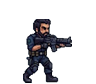
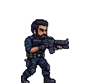
Add per-weapon melee and pixel-art bullets, muzzle, and casings.
Close attacks use SMG, revolver, and shotgun heavy-strike sheets.
Projectiles use the shotgun pellet cloud, revolver round, and SMG
slug art. Shotgun pump ejects a falling casing.

Changed region(s): [[0.2188, 0.2143, 0.75, 1.0]]

diff --git a/tools/slice_weapon_fx.py b/tools/slice_weapon_fx.py
@@ -1,0 +1,133 @@
+#!/usr/bin/env python3
+"""Melee por arma, projéteis em pixel art e cartucho da espingarda."""
+from __future__ import annotations
+
+from pathlib import Path
+
+from PIL import Image
+
+ROOT = Path(__file__).resolve().parents[1]
+SPR = ROOT / "assets" / "sprites"
+FRAMES = ROOT / "assets" / "frames" / "kiko"
+FX = ROOT / "assets" / "frames" / "fx"
+TARGET_H = 64
+FRAME_W, FRAME_H = 96, 84
+BG = (165, 200, 232)
+
+
+def knockout(crop: Image.Image, bg=BG, tol: int = 32, fringe: int = 10) -> Image.Image:
+    im = crop.convert("RGBA")
+    pix = im.load()
+    for y in range(im.height):
+        for x in range(im.width):
+            r, g, b, _a = pix[x, y]
+            dist = max(abs(r - bg[0]), abs(g - bg[1]), abs(b - bg[2]))
+            if dist <= tol:
+                pix[x, y] = (0, 0, 0, 0)
+            elif dist <= tol + fringe:
+                alpha = int(255 * (dist - tol) / fringe)
+                pix[x, y] = (min(255, r + 4), g, max(0, b - 8), alpha)
+    return im
+
+
+def trim(im: Image.Image) -> Image.Image:
+    box = im.split()[-1].getbbox()
+    return im.crop(box) if box else im
+
+
+def pack(im: Image.Image) -> Image.Image:
+    im = trim(im)
+    scale = min(1.15, TARGET_H / max(im.height, 1))
+    nw = max(1, round(im.width * scale))
+    nh = max(1, round(im.height * scale))
+    scaled = im.resize((nw, nh), Image.Resampling.LANCZOS)
+    canvas = Image.new("RGBA", (FRAME_W, FRAME_H), (0, 0, 0, 0))
+    alpha = scaled.split()[-1]
+    ap = alpha.load()
+    foot_xs: list[int] = []
+    scan_from = max(0, nh - max(6, nh // 6))
+    for y in range(scan_from, nh):
+        for x in range(nw):
+            if ap[x, y] > 80:
+                foot_xs.append(x)
+    foot_cx = (min(foot_xs) + max(foot_xs)) / 2 if foot_xs else nw / 2
+    x = int(round(FRAME_W * 0.40 - foot_cx))
+    y = FRAME_H - nh - 1
+    x = max(-nw + 12, min(x, FRAME_W - 12))
+    y = max(0, y)
+    canvas.paste(scaled, (x, y), scaled)
+    return canvas
+
+
+def save_anim(name: str, frames: list[Image.Image]) -> None:
+    FRAMES.mkdir(parents=True, exist_ok=True)
+    for i, frame in enumerate(frames):
+        pack(knockout(frame)).save(FRAMES / f"{name}_{i:02d}.png")
+    print(f"  {name}: {len(frames)}")
+
+
+def save_fx(name: str, im: Image.Image) -> None:
+    FX.mkdir(parents=True, exist_ok=True)
+    trim(knockout(im)).save(FX / f"{name}.png")
+    print(f"  fx {name}")
+
+
+def main() -> None:
+    smg_melee = Image.open(SPR / "melee_fuzil.png")
+    save_anim("melee_fuzil", [
+        smg_melee.crop((17, 18, 63, 107)),
+        smg_melee.crop((66, 18, 139, 107)),
+        smg_melee.crop((66, 18, 139, 107)),
+    ])
+    close = Image.open(SPR / "melee_revolver_shotgun.png")
+    save_anim("melee_pistola", [
+        close.crop((70, 90, 330, 400)),
+        close.crop((70, 90, 330, 400)),
+    ])
+    save_anim("melee_doze", [
+        close.crop((340, 90, 670, 420)),
+        close.crop((340, 90, 670, 420)),
+    ])
+
+    fuzil_sheet = Image.open(SPR / "shoot_fuzil.png")
+    fuzil_frames = [
+        fuzil_sheet.crop((16, 4, 119, 145)),
+        fuzil_sheet.crop((170, 4, 288, 145)),
+        fuzil_sheet.crop((339, 4, 465, 145)),
+        fuzil_sheet.crop((512, 4, 610, 145)),
+        fuzil_sheet.crop((698, 4, 812, 145)),
+        fuzil_sheet.crop((839, 4, 944, 145)),
+    ]
+    save_anim("shoot_fuzil", fuzil_frames)
+    save_anim("jump_shoot_fuzil", fuzil_frames)
+
+    eject = Image.open(SPR / "shotgun_eject.png")
+    extra = [
+        eject.crop((9, 2, 81, 95)),
+        eject.crop((90, 2, 150, 95)),
+    ]
+    # Keep existing shotgun body frames 00-04; add eject as 05-06.
+    save_anim("shoot_doze_eject", extra)
+    # Also append onto shoot_doze by writing 05/06 from eject.
+    for i, frame in enumerate(extra):
+        pack(knockout(frame)).save(FRAMES / f"shoot_doze_{i + 5:02d}.png")
+    print("  shoot_doze extra eject frames")
+
+    save_fx("shotgun_blast", Image.open(SPR / "fx_shotgun_blast.png"))
+    save_fx("muzzle_revolver", Image.open(SPR / "fx_revolver_shot.png"))
+    save_fx("muzzle_fuzil", Image.open(SPR / "fx_fuzil_muzzle.png"))
+
+    p6 = Image.open(SPR / "fx_fuzil_bullet.png")
+    save_fx("bullet_fuzil", p6.crop((14, 16, 40, 30)))
+
+    p4 = Image.open(SPR / "fx_revolver_shot.png")
+    save_fx("bullet_revolver", p4.crop((58, 16, 77, 38)))
+    save_fx("casing", p4.crop((8, 44, 28, 64)))
+
+    blast = Image.open(SPR / "fx_shotgun_blast.png")
+    save_fx("pellet_doze", blast.crop((160, 80, 174, 95)))
+    print("weapon fx ready")
+
+
+if __name__ == "__main__":
+    main()
